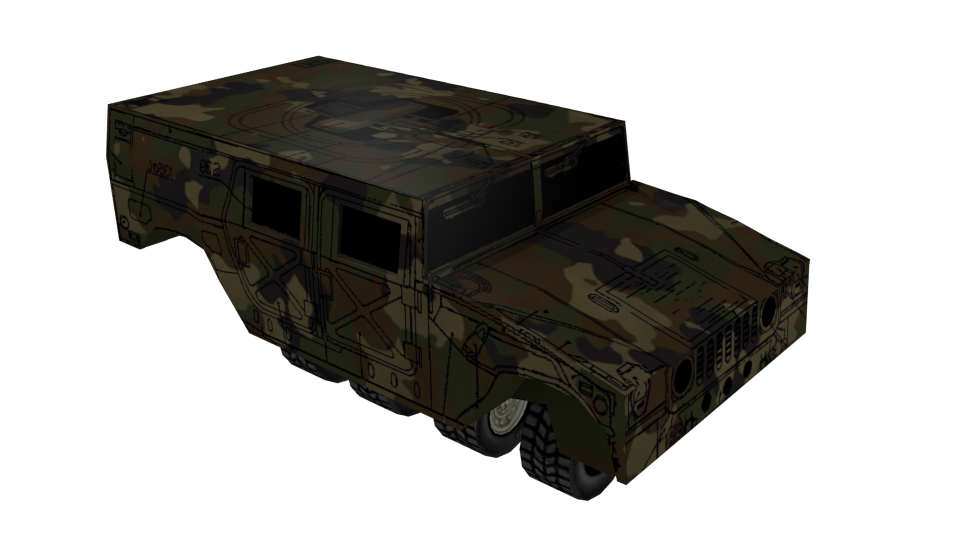
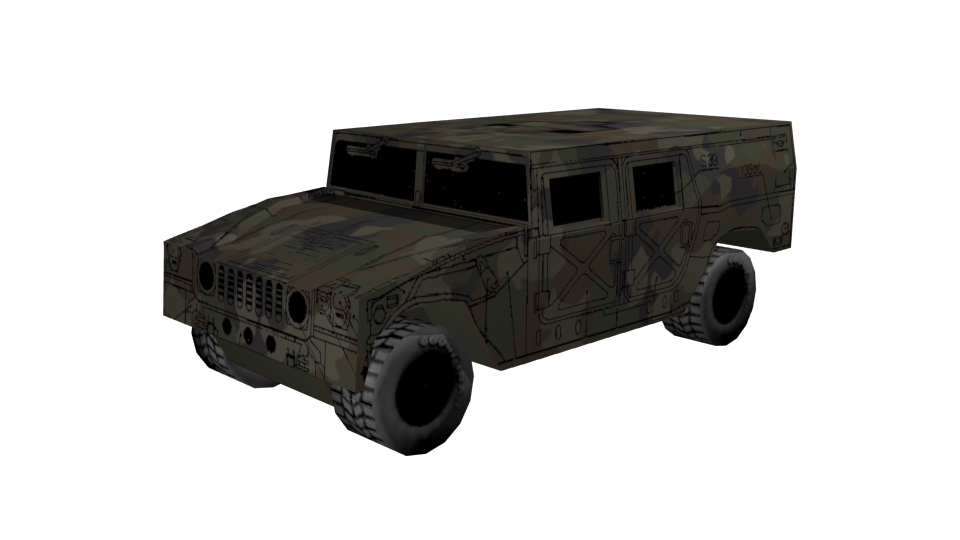
[tools] add components exhibit for doc
update hummer photo, with wheels location to:
[(-2.25, -1.0, -0.25), (-2.25, 1.0, -0.25), (1.6, -1.0, -0.25), (1.6,
1.0, -0.25)]

diff --git a/tools/components_exhibit.py b/tools/components_exhibit.py
@@ -1,0 +1,200 @@
+import os
+import sys
+import pkgutil
+import inspect
+
+try:
+    import bpy # Blender
+except ImportError:
+    print("Could not import bpy, run with Blender\n"
+          "blender -P components_exhibit.py")
+    sys.exit(-1)
+from mathutils import Euler
+
+try:
+    import morse # MORSE
+except ImportError:
+    raise ImportError("Could not import morse, set your PYTHONPATH\n"
+        'export PYTHONPATH="/usr/local/lib/python3.3/site-packages/:$PYTHONPATH"')
+from morse.builder import *
+
+#
+# helpers
+#
+
+def get_classes_from_module(module_name):
+    __import__(module_name)
+    # Predicate to make sure the classes only come from the module in question
+    def predicate(member):
+        return inspect.isclass(member) and member.__module__.startswith(module_name)
+    # fetch all members of module name matching 'pred'
+    return inspect.getmembers(sys.modules[module_name], predicate)
+
+def get_submodules(module_name):
+    """ Get a list of submodules from a module name.
+    Not recursive, don't return nor look in subpackages """
+    __import__(module_name)
+    module = sys.modules[module_name]
+    module_path = getattr(module, '__path__')
+    return [name for _, name, ispkg in pkgutil.iter_modules(module_path) if not ispkg]
+
+def get_subclasses(module_name, skip_submodules=[]):
+    subclasses = []
+    submodules = get_submodules(module_name)
+    for submodule_name in submodules:
+        if submodule_name in skip_submodules:
+            pass
+        submodule = "%s.%s"%(module_name, submodule_name)
+        try:
+            submodule_classes = get_classes_from_module(submodule)
+            for _, klass in submodule_classes:
+                subclasses.append(klass)
+        except Exception:
+            # can not import some resources
+            pass
+    return subclasses
+
+modules = [
+    "morse.builder.sensors",
+    "morse.builder.actuators",
+    "morse.builder.robots",
+]
+
+specific_camera_pose_per_component = {
+    # Robots
+    'BasePR2': (.36, -2.25, 1.77),
+    'SegwayRMP400': (.36, -2.25, 1.77),
+    'ATRV': (.36, -2.25, 1.77),
+    'Human': (4, 0, 2.8), # 65°,0,90°
+    'Hummer': (.36, -2.25, 1.77),
+    'Jido': (.36, -2.25, 1.77),
+    'B21': (.36, -2.25, 1.77),
+    'RMax': (.36, -2.25, 1.77),
+    'Submarine': (.36, -2.25, 1.77),
+    'Vicitm': (.36, -2.25, 1.77),
+    'NavPR2': (.36, -2.25, 1.77),
+    'QUAD2012': (.36, -1.25, .77),
+    'Quadrotor': (.36, -1.25, .77),
+    'Pioneer3DX': (.36, -1.25, .77),
+    # Sensors
+    'Accelerometer': (.36, -1.25, .77),
+    'Battery': (.36, -1.25, .77),
+    'DepthCamera': (.36, -1.25, .77),
+    'GPS': (.36, -1.25, .77),
+    'Gyroscope': (.36, -1.25, .77),
+    'Hokuyo': (.36, -1.25, .77),
+    'IMU': (.36, -1.25, .77),
+    'Infrared': (.36, -1.25, .77),
+    'Kinect': (.36, -1.25, .77),
+    'Odometry': (.36, -1.25, .77),
+    'Pose': (.36, -1.25, .77),
+    'Proximity': (.36, -1.25, .77),
+    'SearchAndRescue': (.36, -1.25, .77),
+    'SemanticCamera': (.36, -1.25, .77),
+    'Sick': (.36, -1.25, .77),
+    'SickLDMRS': (.36, -1.25, .77),
+    'StereoUnit': (.36, -1.25, .77),
+    'Thermometer': (.36, -1.25, .77),
+    'VideoCamera': (.36, -1.25, .77),
+    'Velodyne': (.36, -1.25, .77),
+    # Actuators
+    'PTU': (.36, -1.25, .77),
+    'PA10': (.36, -2.25, 1.77),
+    'KukaLWR': (.36, -2.25, 1.77),
+    'Gripper': (.36, -1.25, .77),
+}
+
+def pose_camera(location = (.36, -1.25, .77), rotation = (1.1, 0, 0.25)):
+    scene = bpy.context.scene
+    scene.camera.rotation_euler = Euler(rotation, 'XYZ')
+    scene.camera.location = location
+
+def delete(obj):
+    bpymorse.select_only(obj)
+    bpy.ops.object.delete()
+
+def setup_scene():
+    scene = bpy.context.scene
+    if 'Cube' in bpy.data.objects:
+        delete(bpy.data.objects['Cube'])
+    # Set the scene's camera
+    scene.camera = bpy.data.objects['Camera']
+    # Set the scene's output file format
+    scene.render.image_settings.file_format = 'PNG'
+    # RGBA, Images are saved with RGB and Alpha data (if supported).
+    scene.render.image_settings.color_mode = 'RGBA'
+    # Premultiplied, Transparent RGB pixels are multiplied by the alpha channel.
+    scene.render.alpha_mode = 'PREMUL'
+    # Move the default Lamp
+    bpy.data.objects['Lamp'].location = (-2, 3, 6)
+    if len(bpy.data.lamps) < 3:
+        # Add new lamp point
+        bpy.ops.object.lamp_add(type='POINT', location=(5, 2, 1))
+        bpy.data.lamps[-1].energy = 0.6
+        bpy.ops.object.lamp_add(type='POINT', location=(-4, 3, 4))
+        bpy.data.lamps[-1].energy = 0.4
+    # Move the default Camera
+    pose_camera()
+
+def render_component(klass, save_path):
+    scene = bpy.context.scene
+    class_name = klass.__name__
+    if class_name in specific_camera_pose_per_component:
+        pose_camera(specific_camera_pose_per_component[class_name])
+    else:
+        print("#### class not in dict: %s"%str(class_name))
+        pose_camera()
+    origin_objects = [obj.name for obj in bpy.data.objects]
+    # load class
+    component = klass()
+    # Refresh the view
+    bpy.ops.wm.redraw_timer(type='DRAW_WIN_SWAP', iterations=1)
+    # Render the scene
+    scene.render.filepath = os.path.join(save_path, klass.__name__ + ".png")
+    bpy.ops.render.render(write_still=True)
+    # Remove imported objects
+    component.select() # select only the compoenent
+    # Select new component (its children)
+    for obj in bpy.data.objects:
+        if obj.name not in origin_objects:
+            obj.select = True
+    # Remove the inserted objects
+    bpy.ops.object.delete()
+
+def main():
+    """ Generate "studio" image of MORSE components
+
+    HOWTO
+
+    export PYTHONPATH="/usr/local/lib/python3.3/site-packages/:$PYTHONPATH"
+    blender -P components_exhibit.py
+
+    Et voila!
+    """
+    print ("==== PHOTO STUDIO FOR MORSE COMPONENTS ====\n\n")
+    save_path = "//morse_renders"
+    scene = bpy.context.scene
+    print('Using Scene[%s]'%scene.name)
+    setup_scene()
+
+    # browse morse components modules
+    for module in modules:
+        print("browse %s classes"%module)
+        for _, klass in get_classes_from_module(module):
+            print("process %s"%str(klass))
+            if issubclass(klass, AbstractComponent):
+                try:
+                    render_component(klass, save_path)
+                except Exception as e:
+                    print("ERROR : Could not render %s : %s"%(str(klass), str(e)))
+            else:
+                print("ERROR: Not a Component : %s"%str(klass))
+
+            print("\n\n")
+
+    print ("DONE!")
+
+
+if __name__ == '__main__':
+    main()
+
